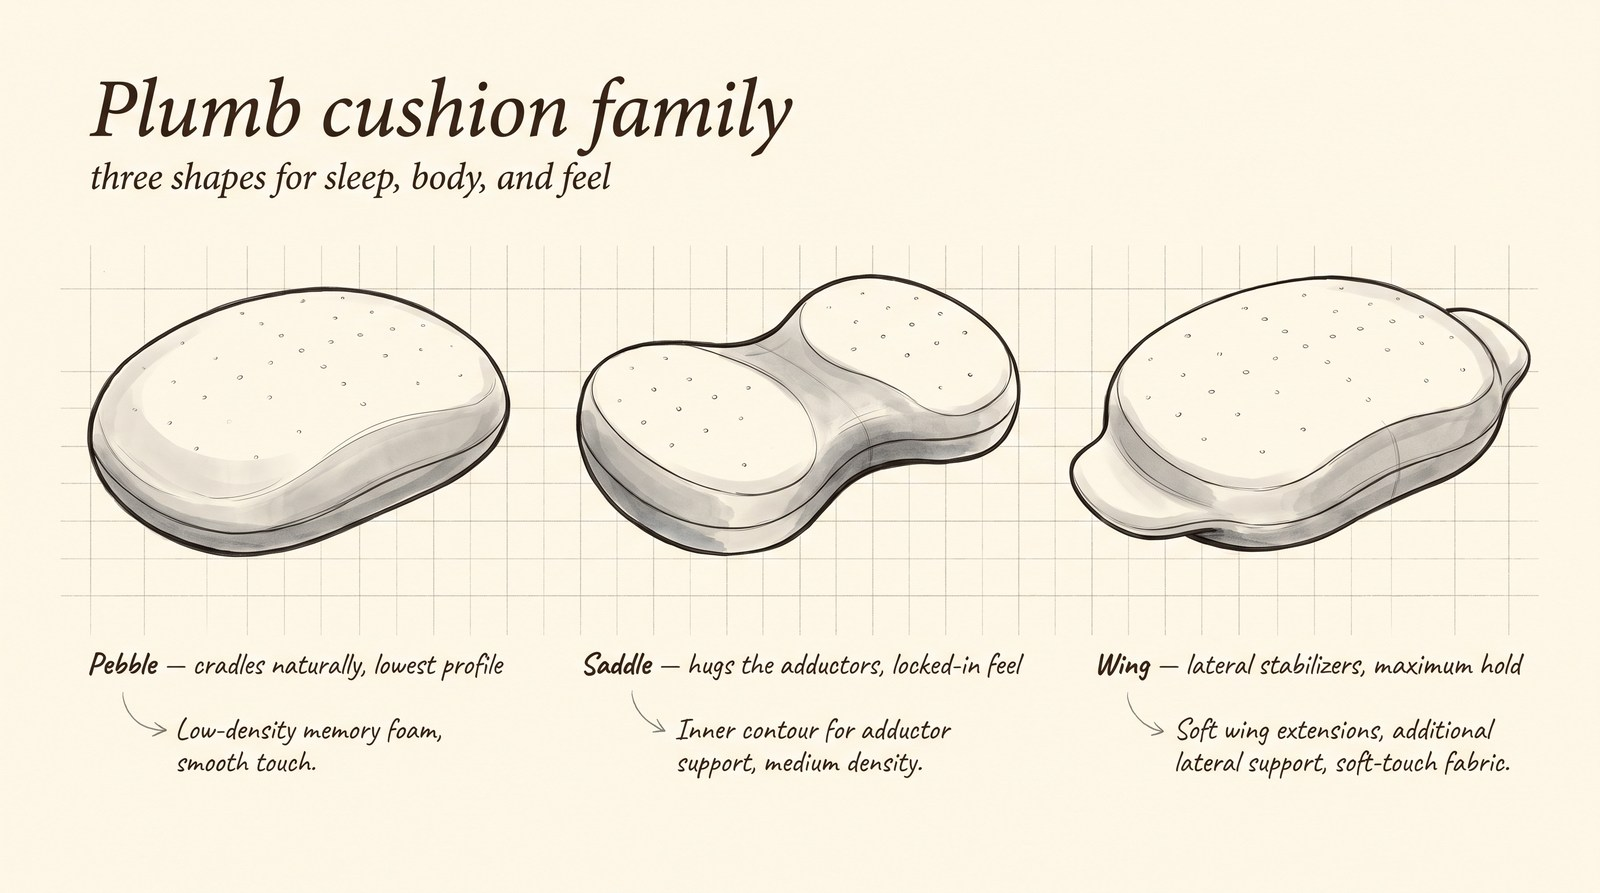
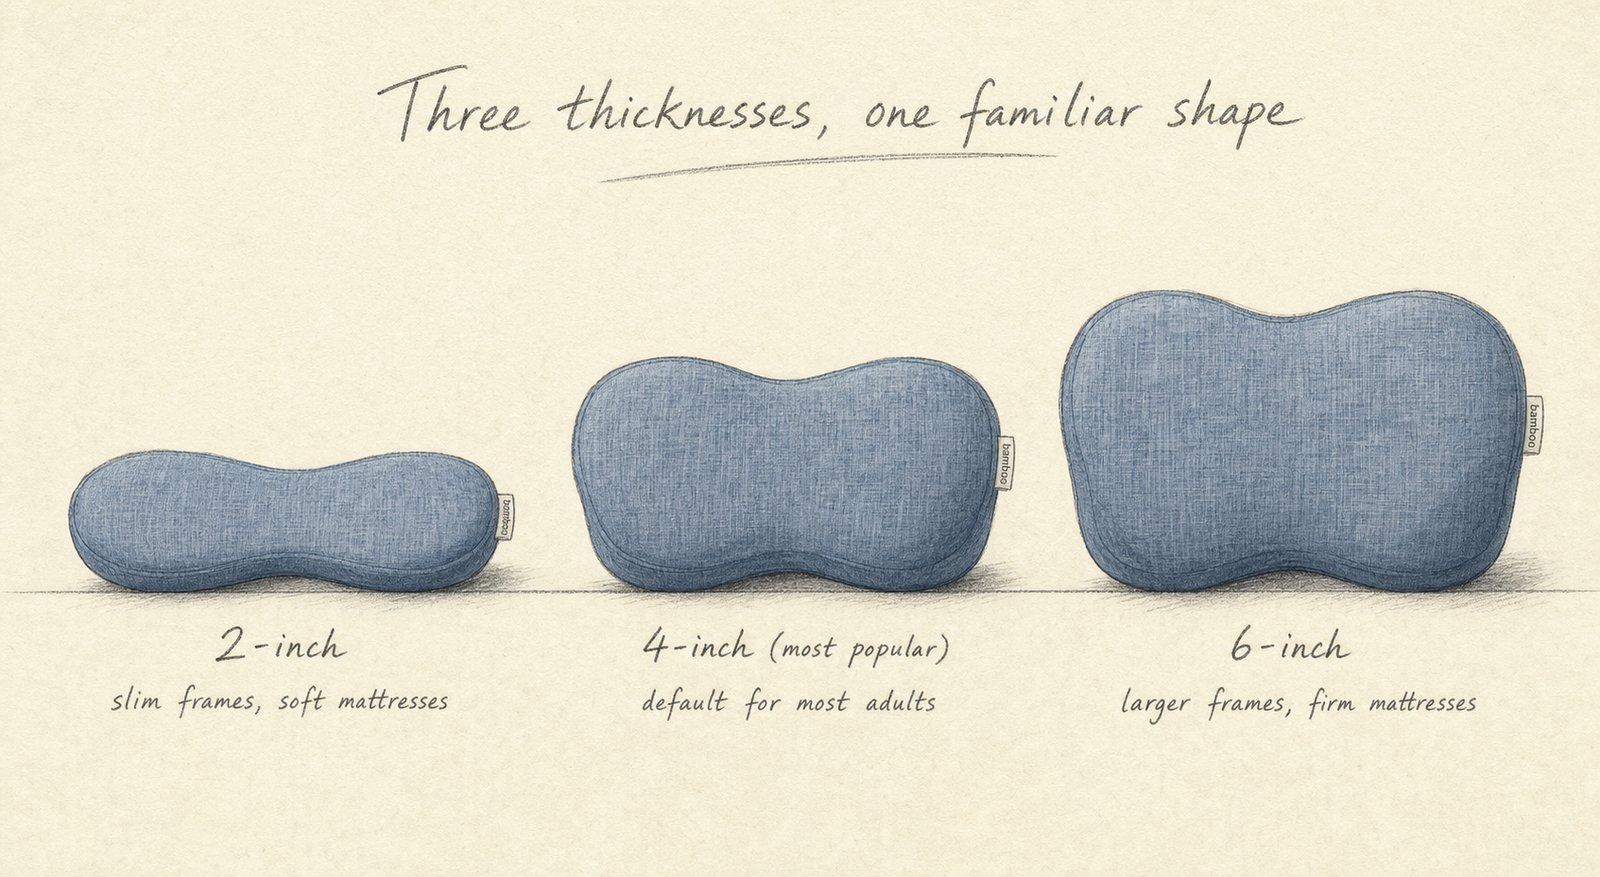
Full site rewrite: validation-first, JTBD headline, FAQ, what-we're-testing
Synthesizes feedback from three independent critiques (ChatGPT/Claude/Claude Code):

- New JTBD headline: 'A knee pillow that stays where loose pillows won't.'
- 'Sleep, aligned.' moves to subtitle (kept as supporting brand line)
- Replaces Pebble/Saddle/Wing with one hourglass shape \xc3\x97 three thicknesses (2/4/6")
- Adds pairing system section: 3 band sizes \xc3\x97 3 cushion thicknesses
- Adds 'How Plumb differs' section naming Contour Legacy, paDjamas, AliMed, PalliPartners directly
- Adds 'What we're testing' section with the 4 wear-test gates and honest rotation risk
- Adds 10-question FAQ addressing buyer objections (circulation, rolling over, washability,
  heat, sizing, medical claims, etc.)
- Fixes bamboo labeling to FTC-compliant 'bamboo-derived viscose'
- Updates footer disclaimer with viscose clarification
- Replaces cushion family sketch (hourglass thicknesses) and adds pairing sketch
- Logo vote retained in current position per Mike's call
- Mobile-responsive FAQ accordion CSS added

diff --git a/public/index.html b/public/index.html
@@ -3,11 +3,11 @@
 <head>
   <meta charset="utf-8">
   <meta name="viewport" content="width=device-width, initial-scale=1">
-  <title>Plumb — Sleep, aligned.</title>
-  <meta name="description" content="A wearable thigh band for side sleepers. One soft bamboo cuff. A contoured cushion. Designed to stay put.">
+  <title>Plumb — A knee pillow that stays where loose pillows won't.</title>
+  <meta name="description" content="A wearable thigh band for side sleepers. The cushion stays in the gap between your knees instead of falling out. Pre-prototype. Sharing for feedback.">
   <link rel="canonical" href="https://plumbsleep.com/">
-  <meta property="og:title" content="Plumb — Sleep, aligned.">
-  <meta property="og:description" content="A wearable thigh band for side sleepers. One band. One cushion. Designed to stay put.">
+  <meta property="og:title" content="Plumb — A knee pillow that stays where loose pillows won't.">
+  <meta property="og:description" content="A wearable thigh band for side sleepers. The cushion stays in the gap between your knees instead of falling out.">
   <meta property="og:image" content="https://plumbsleep.com/assets/hero_image.jpg">
   <meta property="og:type" content="website">
   <meta property="og:url" content="https://plumbsleep.com/">
@@ -29,40 +29,41 @@
     <!-- HERO -->
     <section class="section section-hero">
       <div class="content">
-        <h1>Plumb</h1>
+        <h1>A knee pillow that stays where loose pillows won't.</h1>
         <p class="subtitle">Sleep, aligned.</p>
         <p class="lede">
-          A wearable thigh band for adult side sleepers &mdash; a soft bamboo
-          cuff with a contoured cushion mounted on the outside, designed to
-          seat in the gap between the thighs and stay there. Replaces loose
-          knee pillows. One band, worn on the dominant leg, in three cushion
-          shapes and two colorways. Currently pre-prototype. Sharing for feedback.
+          Plumb is a soft bamboo-derived viscose cuff worn on the upper thigh,
+          with a contoured cushion mounted to the outside of the band. It seats
+          in the gap between the thighs the way a knee pillow does &mdash; but
+          because it's attached to the leg, it goes where you go. No 3 a.m.
+          reaching, no kicking it across the bed. Currently pre-prototype.
+          Sharing for feedback.
         </p>
       </div>
       <figure class="full-width">
         <picture>
           <source srcset="assets/hero_image.webp" type="image/webp">
-          <img src="assets/hero_image.jpg" alt="Design sketch showing Plumb in side-sleep position: a single wide fabric band wraps only the upper thigh of the upper leg. A horizontally-oriented contoured cushion mounts to the band's exterior and seats in the gap between the thighs. The lower thigh is bare — no band. The cushion's convex face contacts the lower thigh; both thighs grip it laterally to hold it in place." width="1600" height="1066">
+          <img src="assets/hero_image.jpg" alt="Design sketch of Plumb in side-sleep position: a single wide fabric band wraps only the upper thigh of the upper leg. A horizontally-oriented contoured cushion mounts to the band's exterior and seats in the gap between the thighs. The lower thigh is bare." width="1600" height="1066">
         </picture>
-        <figcaption>One band on the dominant leg &middot; cushion seats between the thighs &middot; both legs hold it in place</figcaption>
+        <figcaption>One band on the upper thigh &middot; cushion seats in the inter-thigh gap &middot; both legs hold it in place</figcaption>
       </figure>
     </section>
 
     <!-- WHY -->
     <section class="section">
       <div class="content">
-        <h2>Why side sleepers abandon knee pillows</h2>
+        <h2>The problem with loose knee pillows</h2>
         <div class="grid-2x2">
           <div class="card">
             <h3>Falls out.</h3>
-            <p>Loose pillows slip between the knees during normal sleep movement.</p>
+            <p>Most side sleepers wake at least once a night to find or replace it.</p>
           </div>
           <div class="card">
             <h3>Runs hot.</h3>
-            <p>Foam blocks trap heat at the inner thigh &mdash; the warmest contact zone.</p>
+            <p>Foam blocks trap heat at the inner thigh, the warmest contact zone.</p>
           </div>
           <div class="card">
-            <h3>Wakes the sleeper.</h3>
+            <h3>Wakes you up.</h3>
             <p>Repositioning interrupts sleep cycles, especially after midnight.</p>
           </div>
           <div class="card">
@@ -76,58 +77,125 @@
     <!-- PRODUCT -->
     <section class="section">
       <div class="content">
-        <h2>What Plumb is</h2>
+        <h2>How Plumb works</h2>
         <p>
-          Plumb is a bamboo-blend cuff (at least 3 inches wide) worn above the
-          knee on the dominant leg. A contoured cushion mounts to the band's
-          exterior &mdash; its base is gently concave to wrap the band, and its
-          outward face is gently convex to meet the opposite thigh. When the
-          wearer rolls to their side, the cushion seats naturally in the gap
-          between the thighs, with both legs gripping it laterally to hold it
-          in position. Silicone dot grippers on the inside top and bottom of
-          the band keep it from sliding down the leg. One band, one cushion,
-          one leg. Designed to feel like premium sleepwear, not a medical brace.
+          The cuff is bamboo-derived viscose knit, at least 3 inches wide, with
+          silicone dot grippers on the inside to keep it from sliding down the
+          leg. A contoured hourglass cushion mounts to the band's exterior. Its
+          concave base wraps the band; its convex face contacts the opposite
+          thigh. When you roll to your side, the cushion seats naturally in the
+          gap between the thighs, with both legs gripping it laterally.
+        </p>
+        <p>
+          One band, one cushion, one leg. Designed to feel like premium
+          sleepwear, not a medical brace.
+        </p>
+      </div>
+    </section>
+
+    <!-- CUSHION FAMILY -->
+    <section class="section">
+      <div class="content">
+        <h2>One shape, three thicknesses</h2>
+        <p>
+          The cushion is a familiar hourglass silhouette &mdash; the same general
+          shape side sleepers have used for decades &mdash; refined to seat in the
+          inter-thigh gap and pair with the band.
         </p>
       </div>
       <figure class="full-width">
         <picture>
           <source srcset="assets/cushion_family.webp" type="image/webp">
-          <img src="assets/cushion_family.jpg" alt="Three Plumb cushion shapes drawn in concept sketch style on cream paper: Pebble (smooth oval), Saddle (peanut shape), and Wing (pebble with lateral wings)." width="1600" height="900" loading="lazy">
+          <img src="assets/cushion_family.jpg" alt="Three Plumb cushions shown in profile from left to right: 2-inch for slim frames and soft mattresses; 4-inch (most popular), the default for most adults; 6-inch for larger frames and firm mattresses. All same hourglass shape, slate-blue Midnight colorway." width="1600" height="877" loading="lazy">
         </picture>
-        <figcaption>Three cushion shapes &middot; Pebble, Saddle, Wing</figcaption>
+        <figcaption>Three thicknesses &middot; one familiar shape</figcaption>
       </figure>
+    </section>
+
+    <!-- PAIRING -->
+    <section class="section">
       <div class="content">
+        <h2>Built to fit a range of bodies</h2>
         <p>
-          <strong>Pebble</strong> is the universal entry shape &mdash; a smooth
-          oval that cradles between the thighs at the lowest profile. Walkable
-          for a brief trip out of bed.<br>
-          <strong>Saddle</strong> is our recommended default &mdash; a softly
-          waisted shape that hugs the adductors for a more locked-in feel.<br>
-          <strong>Wing</strong> is the heavy-sleeper option &mdash; the Pebble
-          silhouette with two subtle lateral wings that engage both thighs for
-          maximum hold. Recommended for larger frames or soft mattresses.
+          Plumb pairs two components: a soft bamboo-derived viscose cuff in
+          <strong>Regular</strong>, <strong>Large</strong>, or <strong>XL</strong>,
+          and a cushion in one of three thicknesses. The cuff fits the upper
+          thigh; the cushion seats in the inter-thigh gap. We pair them at
+          order time rather than locking a fixed combination into every box,
+          so the product fits more side sleepers across more body sizes and
+          life stages &mdash; including bodies that are changing.
         </p>
       </div>
+      <figure class="full-width">
+        <picture>
+          <source srcset="assets/pairing.webp" type="image/webp">
+          <img src="assets/pairing.jpg" alt="Concept sketch showing the Plumb pairing system: three band sizes (Regular, Large, XL) shown above three cushion profiles (2-inch, 4-inch, 6-inch). Hand-drawn editorial style, slate-blue Midnight colorway." width="1600" height="1066" loading="lazy">
+        </picture>
+        <figcaption>Three band sizes &middot; three cushion thicknesses &middot; pair one cuff with one cushion</figcaption>
+      </figure>
     </section>
 
     <!-- COLORWAYS -->
     <section class="section">
       <div class="content">
-        <h2>Two colorways</h2>
+        <h2>Two colorways, designed to pair</h2>
         <p>
-          Plumb launches in two colors: <strong>Midnight</strong>
-          (a soft slate-blue) and <strong>Dune</strong> (a warm terracotta-tinted
-          oatmeal). Both with a vivid purple PLUMB wordmark embroidered on the
-          front.
+          Plumb launches in <strong>Midnight</strong> (a soft slate-blue) and
+          <strong>Dune</strong> (a warm terracotta-tinted oatmeal). Both with a
+          vivid purple PLUMB wordmark embroidered on the front.
         </p>
       </div>
       <figure class="full-width">
         <picture>
           <source srcset="assets/hero_dune.webp" type="image/webp">
-          <img src="assets/hero_dune.jpg" alt="Color rendering of the Plumb band in Dune colorway: warm terracotta-tinted oatmeal bamboo-blend knit with purple PLUMB embroidery. Color study, not a final product photograph." width="1600" height="1067" loading="lazy">
+          <img src="assets/hero_dune.jpg" alt="Color rendering of the Plumb band in Dune colorway: warm terracotta-tinted oatmeal bamboo-derived viscose knit with purple PLUMB embroidery. Color study, not a final product photograph." width="1600" height="1067" loading="lazy">
         </picture>
         <figcaption>Dune colorway &middot; color study, not a final product photo</figcaption>
       </figure>
+    </section>
+
+    <!-- HOW WE'RE DIFFERENT -->
+    <section class="section">
+      <div class="content">
+        <h2>How Plumb differs from what's already out there</h2>
+        <p>
+          Knee pillows have been on the market for decades. Contour Legacy, Cushy
+          Form, ComfiLife and others sell loose hourglass cushions for $25&ndash;$40.
+          Companies like paDjamas, AliMed, and PalliPartners sell padded knee
+          sleeves with cushions sewn inside for $35. We've used and studied all
+          of them.
+        </p>
+        <p>
+          Plumb sits in between those two approaches. Loose pillows are soft and
+          comfortable but fall out. Padded sleeves stay in place but tend to feel
+          medical. Plumb mounts the cushion to the exterior of a soft band, so
+          the cushion stays in position but isn't pressed against the worn leg's
+          skin. We think that's a better trade. We'll find out when testers wear
+          it.
+        </p>
+      </div>
+    </section>
+
+    <!-- WHAT WE'RE TESTING -->
+    <section class="section">
+      <div class="content">
+        <h2>What we're testing</h2>
+        <p>
+          Plumb is pre-prototype. Before we tool, source, or ship anything,
+          we're answering four questions through a 30-night wear test:
+        </p>
+        <ul class="status-list">
+          <li><strong>Does the cushion stay in the inter-thigh gap?</strong> A band rotates around the thigh during sleep. Silicone grippers stop vertical slide, but rotation is the open question. Time-lapse video answers it.</li>
+          <li><strong>Is it tolerable to wear?</strong> Sleep products fail at 2 a.m., not in a store. Tightness, heat, edge pressure, bunching &mdash; any one of them kills repeat use.</li>
+          <li><strong>Does it work on both sides?</strong> Side sleepers roll. The single-band design has to work when you flip.</li>
+          <li><strong>Would you reach for it on night 14?</strong> Novelty is easy. Habit is the test.</li>
+        </ul>
+        <p>
+          We'll publish what we learn. If the rotation test fails, we redesign
+          or kill the idea. If it passes, the next gate is 30 strangers, not
+          friends.
+        </p>
+      </div>
     </section>
 
     <!-- LOGO VOTE -->
@@ -217,6 +285,63 @@
       </div>
     </section>
 
+    <!-- FAQ -->
+    <section class="section">
+      <div class="content">
+        <h2>Honest answers</h2>
+
+        <details class="faq">
+          <summary>How is this different from a $35 knee pillow sleeve?</summary>
+          <p>Padded sleeves put the cushion <em>inside</em> the band, against the inner thigh of the worn leg. Plumb mounts the cushion to the <em>outside</em> of the band, so the cushion sits in the inter-thigh gap rather than being squeezed against your own skin. That's the bet. Whether it actually works better is what the wear test will tell us.</p>
+        </details>
+
+        <details class="faq">
+          <summary>Will it cut off circulation?</summary>
+          <p>The band is soft knit and stretches significantly &mdash; closer to the feel of a wide compression sock than a strap. The grip comes from silicone dots, not from tightness. If a tester reports any numbness, tingling, or skin marks, we redesign. That's a hard kill criterion.</p>
+        </details>
+
+        <details class="faq">
+          <summary>What happens when I roll over?</summary>
+          <p>Honest answer: we don't know yet. The cushion stays attached to the band, so it travels with you to whichever side you roll to. The open question is whether the band rotates during the night and carries the cushion out of the inter-thigh gap. That's the single biggest thing the wear test has to answer.</p>
+        </details>
+
+        <details class="faq">
+          <summary>Which leg do I wear it on?</summary>
+          <p>The dominant leg &mdash; the one that ends up on top more often when you're on your preferred side. Most right-handed side sleepers default to right-side-down with the left leg on top.</p>
+        </details>
+
+        <details class="faq">
+          <summary>How tight is it?</summary>
+          <p>Snug enough to stay in place; loose enough that you forget you're wearing it. The band has at least three inches of width to distribute pressure across a wide area rather than concentrating it in a strap.</p>
+        </details>
+
+        <details class="faq">
+          <summary>Is it washable?</summary>
+          <p>Yes &mdash; planned for machine wash, line dry. The cushion is removable from a sleeve in the band exterior, so the foam core stays dry while the fabric washes.</p>
+        </details>
+
+        <details class="faq">
+          <summary>Does it sleep hot?</summary>
+          <p>The band is bamboo-derived viscose, which dissipates heat better than cotton or polyester. The cushion exterior is the same fabric. That said, anything on your leg adds some thermal mass &mdash; the wear test will tell us how much.</p>
+        </details>
+
+        <details class="faq">
+          <summary>How do I pick a size?</summary>
+          <p>Three band sizes &mdash; Regular, Large, XL &mdash; based on upper thigh circumference. A fit guide ships with each band. If you're between sizes, size up &mdash; the silicone grippers compensate. Cushion thickness is a separate choice based on body size and mattress firmness.</p>
+        </details>
+
+        <details class="faq">
+          <summary>Can I use it if I already have hip or back pain?</summary>
+          <p>Plumb is a sleep-positioning product designed for comfort. It is not a medical device. It is not intended to diagnose, treat, mitigate, or cure any condition. If you have hip, back, or joint pain, talk to your doctor or physical therapist about whether a between-the-knees cushion is appropriate for you.</p>
+        </details>
+
+        <details class="faq">
+          <summary>When can I buy one?</summary>
+          <p>Not yet. Pre-prototype. If the wear test passes, we'll open a waitlist and ship the first production run later in 2026.</p>
+        </details>
+      </div>
+    </section>
+
     <!-- FEEDBACK -->
     <section class="section">
       <div class="content">
@@ -271,7 +396,8 @@
       </div>
       <p class="disclaimer">
         Plumb is a sleep-positioning concept for general comfort use. Not a
-        medical device. Not intended to diagnose or treat any condition.
+        medical device. Not intended to diagnose, treat, mitigate, or cure any
+        condition. Bamboo-derived viscose, not raw bamboo fiber.
       </p>
     </div>
   </footer>

diff --git a/public/styles.css b/public/styles.css
@@ -506,3 +506,41 @@ textarea {
 @media (max-width: 600px) {
   .tagline-small { display: none; }
 }
+
+/* FAQ accordions */
+.faq {
+  border-top: 1px solid #e6e3da;
+  padding: 1.1rem 0;
+}
+.faq:last-of-type {
+  border-bottom: 1px solid #e6e3da;
+}
+.faq summary {
+  cursor: pointer;
+  font-weight: 600;
+  font-size: 1.05rem;
+  color: var(--ink, #2d4a3e);
+  list-style: none;
+  padding-right: 2rem;
+  position: relative;
+}
+.faq summary::-webkit-details-marker { display: none; }
+.faq summary::after {
+  content: "+";
+  position: absolute;
+  right: 0;
+  top: 0;
+  font-size: 1.3rem;
+  font-weight: 300;
+  color: var(--ink-soft, #5a6660);
+  transition: transform 0.15s ease;
+}
+.faq[open] summary::after {
+  content: "\2212";
+}
+.faq p {
+  margin-top: 0.85rem;
+  margin-bottom: 0.25rem;
+  color: var(--ink-soft, #5a6660);
+  line-height: 1.6;
+}
